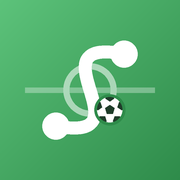
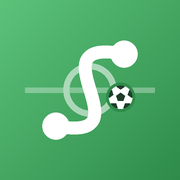
[update] アイコンのボールを S の線にかからない角度（サークルの右・少し下）へ

Changed region(s): [[0.5, 0.4444, 0.75, 0.6944]]

diff --git a/tools/icon.py b/tools/icon.py
@@ -4,7 +4,7 @@
 おくるん（OQRN）のアイコンと同じ角の丸い四角に、ピッチの緑のグラデーション。
 中は、白い S 字の作戦の線（パスの通り道）と、その両端の選手2人。後ろにうっすらピッチの線（ハーフウェーラインとセンターサークル）。
 S 字は「さくせん（SAQSEN）」の S も兼ねる。作戦盤の線と同じく矢印は付けない。
-センターサークルの右下にサッカーボールを置き、サークル（輪）＋ボール（しっぽ）で Q にも見せる（SAQSEN の Q）。
+センターサークルの右・少し下（S の線にかからない角度）にサッカーボールを置き、サークル（輪）＋ボール（しっぽ）で Q にも見せる（SAQSEN の Q）。ロゴでは右下（45°）。
 
   icon.svg             … ファビコン
   apple-touch-icon.png … iPhone のホーム画面（180px）
@@ -34,7 +34,7 @@ PLAYER_R = 7.5
 FAINT = 0.32  # ピッチの線の濃さ
 CIRCLE = (50, 50, 13)  # センターサークル（中心 x, y, 半径）
 CIRCLE_ALPHA = 0.55  # サークルはハーフウェーラインより濃く（ボールと合わせて Q に見せる）
-BALL = (61, 61, 7)  # ボール：サークルの右下（45°）のふちに重ねる＝Q のしっぽ
+BALL = (67, 54, 6.5)  # ボール：サークルの右・少し下（約 13°）のふち＝Q のしっぽ。S の線にかからない角度
 BALL_INK = (31, 61, 42)  # ボールの模様
 
 

diff --git a/README.md b/README.md
@@ -2,7 +2,7 @@
 
 サッカー・フットサルのスタメン発表・作戦盤・試合結果のツール。名前は「さくせん盤」（英字は SAQSEN。おくるん＝OQRN と同じ作り方）。ふだん見せるのはひらがなの「さくせん盤」、英字は見出しの下の小さな文字やロゴに使う。送るカードはおくるんで作る。
 
-アイコン（`icon.svg`・`apple-touch-icon.png`・`icon-512.png`）は `python3 tools/icon.py` で作る：おくるんと同じ角の丸い四角に、ピッチの緑。白い S 字の作戦の線（インテグラル ∫ のような細身の S。パスの通り道で、さくせんの S）と両端の選手2人、うっすらピッチの線。センターサークルの右下にサッカーボールを置き、サークル＋ボールで Q にも見せる（SAQSEN の Q）。
+アイコン（`icon.svg`・`apple-touch-icon.png`・`icon-512.png`）は `python3 tools/icon.py` で作る：おくるんと同じ角の丸い四角に、ピッチの緑。白い S 字の作戦の線（インテグラル ∫ のような細身の S。パスの通り道で、さくせんの S）と両端の選手2人、うっすらピッチの線。センターサークルの右・少し下（S の線にかからない角度）にサッカーボールを置き、サークル＋ボールで Q にも見せる（SAQSEN の Q）。
 
 横長のロゴ（`logo.svg`）も同じスクリプトで作る：ピッチ（盤）の上に「SAQSEN」を白い字で並べ、S はアイコンと同じ線の S、Q はセンターサークル（ハーフウェーラインの真ん中）＋右下のボール。見出しの下に出す。
 
